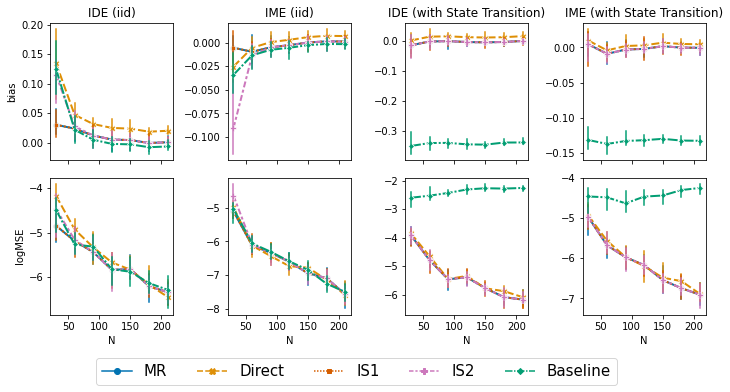
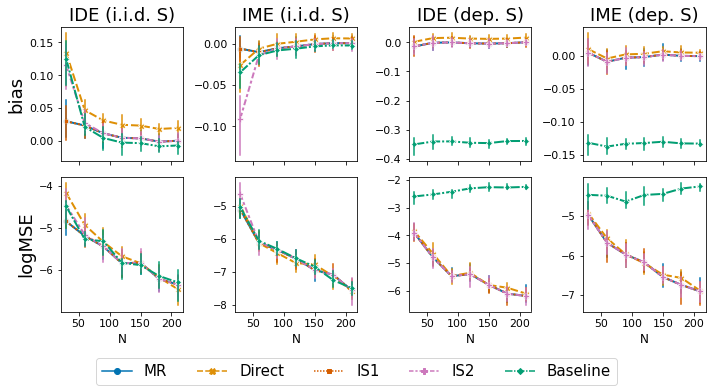
Add files via upload

diff --git a/Toy_2/plot.py b/Toy_2/plot.py
@@ -46,8 +46,9 @@ def plot(result_iid, result_w_state, x='NT'):
                        ,linewidth = 2.0,
                        markers = True
                         )
-    ax1.set_title('IDE (iid)')
-    ax1.axes.set_ylabel("bias")
+    ax1.set_title('IDE (i.i.d. S)', fontsize = 18)
+    ax1.tick_params(axis='y', labelsize=11)
+    ax1.axes.set_ylabel("bias", fontsize = 18)
     
     ax2 = sns.lineplot(data=result_iid
                          , x=x, y="IME_error"
@@ -61,7 +62,8 @@ def plot(result_iid, result_w_state, x='NT'):
                        ,linewidth = 2.0,
                        markers = True
                         )
-    ax2.set_title('IME (iid)')
+    ax2.set_title('IME (i.i.d. S)', fontsize = 18)
+    ax2.tick_params(axis='y', labelsize=11)
     ax2.set(ylabel=None)
     
     ax3 = sns.lineplot(data=result_w_state
@@ -76,7 +78,8 @@ def plot(result_iid, result_w_state, x='NT'):
                        ,linewidth = 2.0,
                        markers = True
                         )
-    ax3.set_title('IDE (with State Transition)')
+    ax3.set_title('IDE (dep. S)', fontsize = 18)
+    ax3.tick_params(axis='y', labelsize=11)
     ax3.set(ylabel=None)
     
     ax4 = sns.lineplot(data=result_w_state
@@ -91,7 +94,8 @@ def plot(result_iid, result_w_state, x='NT'):
                        ,linewidth = 2.0,
                        markers = True
                         )
-    ax4.set_title('IME (with State Transition)')
+    ax4.set_title('IME (dep. S)', fontsize = 18)
+    ax4.tick_params(axis='y', labelsize=11)
     ax4.set(ylabel=None)
     
     ax5 = sns.lineplot(data=result_iid
@@ -106,7 +110,9 @@ def plot(result_iid, result_w_state, x='NT'):
                        ,linewidth = 2.0,
                        markers = True
                         )
-    ax5.axes.set_ylabel("logMSE")
+    ax5.axes.set_ylabel("logMSE", fontsize = 18)
+    ax5.tick_params(axis='x', labelsize=11)
+    ax5.axes.set_xlabel(x,fontsize = 12)
 
 
     ax6 = sns.lineplot(data=result_iid
@@ -122,6 +128,8 @@ def plot(result_iid, result_w_state, x='NT'):
                        markers = True
                         )
     ax6.set(ylabel=None)
+    ax6.tick_params(axis='x', labelsize=11)
+    ax6.axes.set_xlabel(x,fontsize = 12)
     
     
     ax7 = sns.lineplot(data=result_w_state
@@ -137,6 +145,8 @@ def plot(result_iid, result_w_state, x='NT'):
                        markers = True
                         )
     ax7.set(ylabel=None)
+    ax7.tick_params(axis='x', labelsize=11)
+    ax7.axes.set_xlabel(x,fontsize = 12)
 
 
     ax8 = sns.lineplot(data=result_w_state
@@ -152,6 +162,8 @@ def plot(result_iid, result_w_state, x='NT'):
                        markers = True
                         )
     ax8.set(ylabel=None)
+    ax8.tick_params(axis='x', labelsize=11)
+    ax8.axes.set_xlabel(x,fontsize = 12)
 
     handles, labels = ax1.get_legend_handles_labels()
     lgd = fig.legend(handles, labels, loc='lower center', ncol = len(labels)
